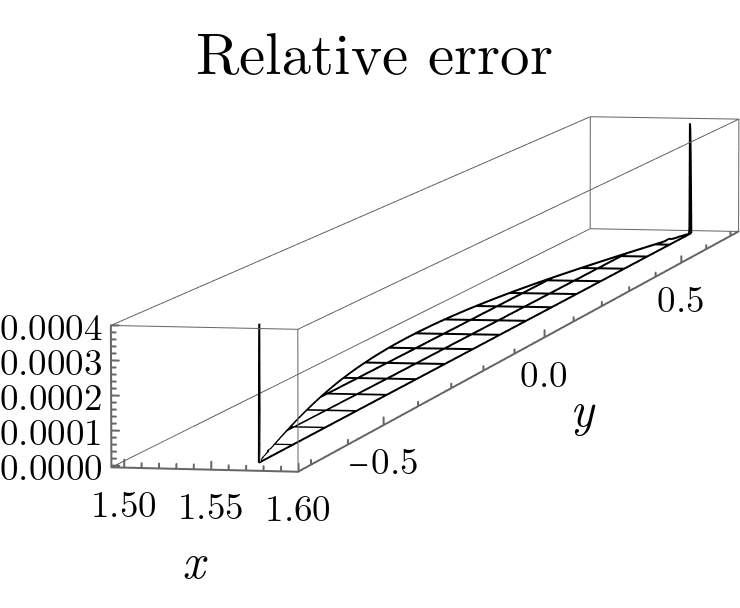
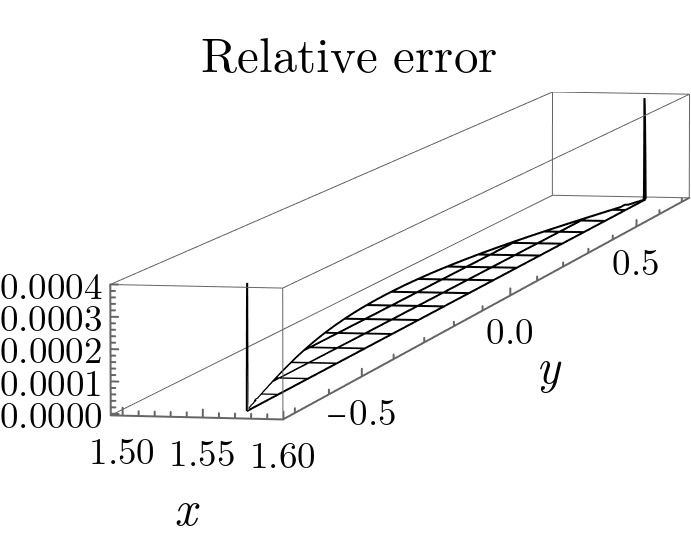
Cartesian: tweak cosine relative error figures
See yawnoc/phd-code@5c18e94a3c.

diff --git a/cartesian.tex b/cartesian.tex
@@ -1618,19 +1618,21 @@ Each domain is discretised into an unstructured triangular mesh
 with around 500~elements.
 
 \begin{figure}
-  \newcommand*{\subfigurewidth}{0.45\textwidth}
+  \newcommand*{\subfigurewidth}{0.42\textwidth}
   \centering
   \hspace*{\fill}
   \begin{subfigure}[t]{\subfigurewidth}
-    \centredfigurecontent[
-      trim=0 -0.75 0 0
-    ]{cosine-verification-lens-relative-error}{%
+    \centredfigurecontent[trim=0 -1 0 0]{%
+      cosine-verification-lens-relative-error%
+    }{%
       Lens-shaped
     }
   \end{subfigure}
     \hfill
   \begin{subfigure}[t]{\subfigurewidth}
-    \centredfigurecontent{cosine-verification-asymmetric-relative-error}{%
+    \centredfigurecontent{%
+      cosine-verification-asymmetric-relative-error%
+    }{%
       Asymmetric
     }
   \end{subfigure}
@@ -1646,7 +1648,7 @@ with around 500~elements.
   \centering
   \hspace*{\fill}
   \begin{subfigure}[t]{\subfigurewidth}
-    \centredfigurecontent{%
+    \centredfigurecontent[trim=0 -1 0 0]{%
       cosine-verification-lens-relative-error-histogram%
     }{%
       Lens-shaped
